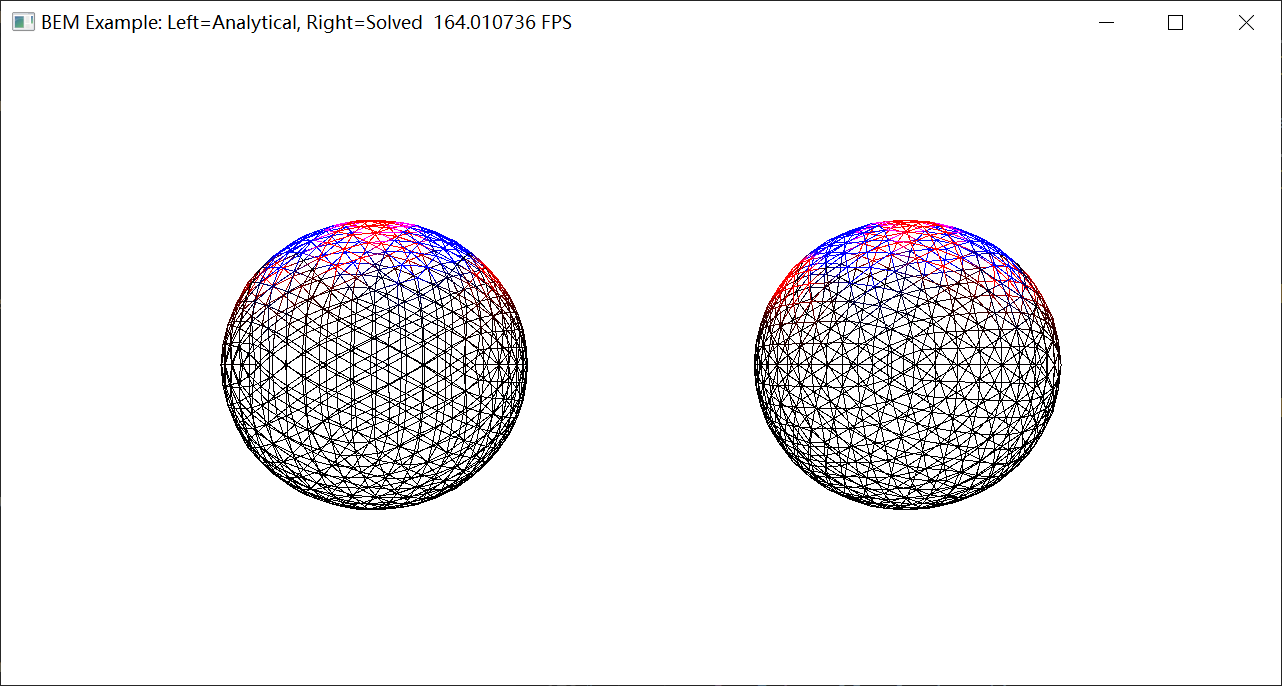
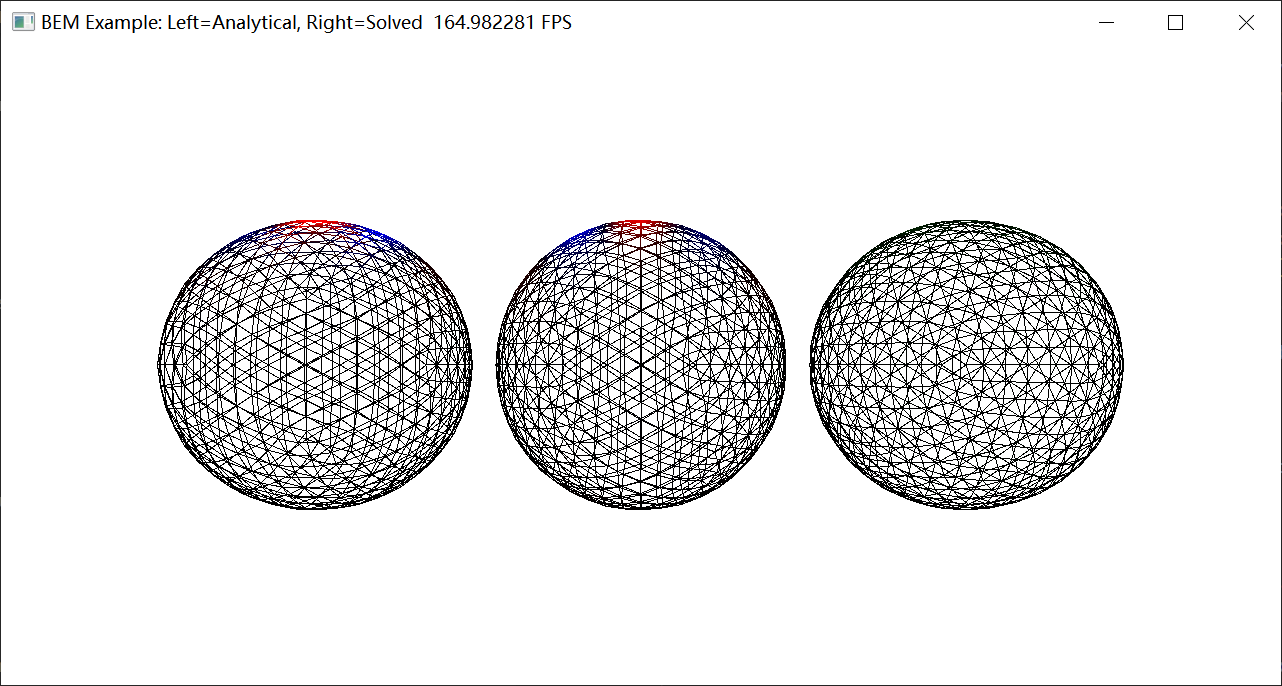
Update readme.md

diff --git a/demo/demo_3d_Laplace.py b/demo/demo_3d_Laplace.py
@@ -144,7 +144,7 @@ if __name__ == '__main__':
     parser.add_argument(
         "--show_wireframe",
         type=bool,
-        default=False,
+        default=True,
         help="Do we need a video for visualization?",
     )
 
